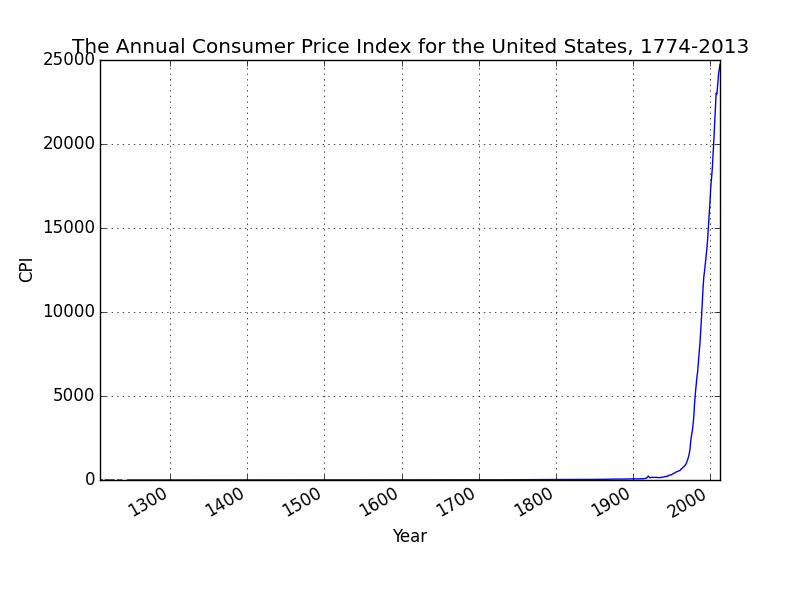
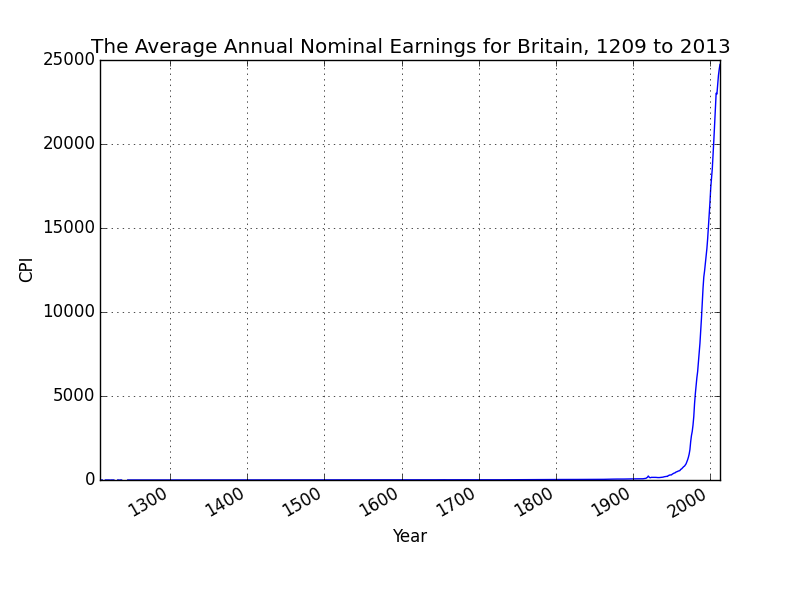
Fixed plots

Changed region(s): [[0.0938, 0.06, 0.9375, 0.09]]

diff --git a/histcalc/data/datasets.py b/histcalc/data/datasets.py
@@ -24,7 +24,7 @@ datasets = {
 "file":"UKRPINAE.csv",
 "header":["Year","Retail Price Index (2010 = 100)"],
 "size":805,
-"title":"The Annual Consumer Price Index for the United States, 1774-2013",
+"title":"The Annual RPI for Britain, 1209 to 2013",
 "xlabel":"Year",
 "from":1209,
 "to":2013,
@@ -35,7 +35,7 @@ datasets = {
 "file":"UKRPINAE.csv",
 "header":["Year","Average Annual Nominal Earnings (2010 = 100)"],
 "size":805,
-"title":"The Annual Consumer Price Index for the United States, 1774-2013",
+"title":"The Average Annual Nominal Earnings for Britain, 1209 to 2013",
 "xlabel":"Year",
 "from":1209,
 "to":2013,
@@ -46,7 +46,7 @@ datasets = {
 "file":"UKRPINAE.csv",
 "header":["Year","Average Annual Real Earnings (2010 = 100)"],
 "size":805,
-"title":"The Annual Consumer Price Index for the United States, 1774-2013",
+"title":"The Average Annual Real Earnings for Britain, 1209 to 2013",
 "xlabel":"Year",
 "from":1209,
 "to":2013,
